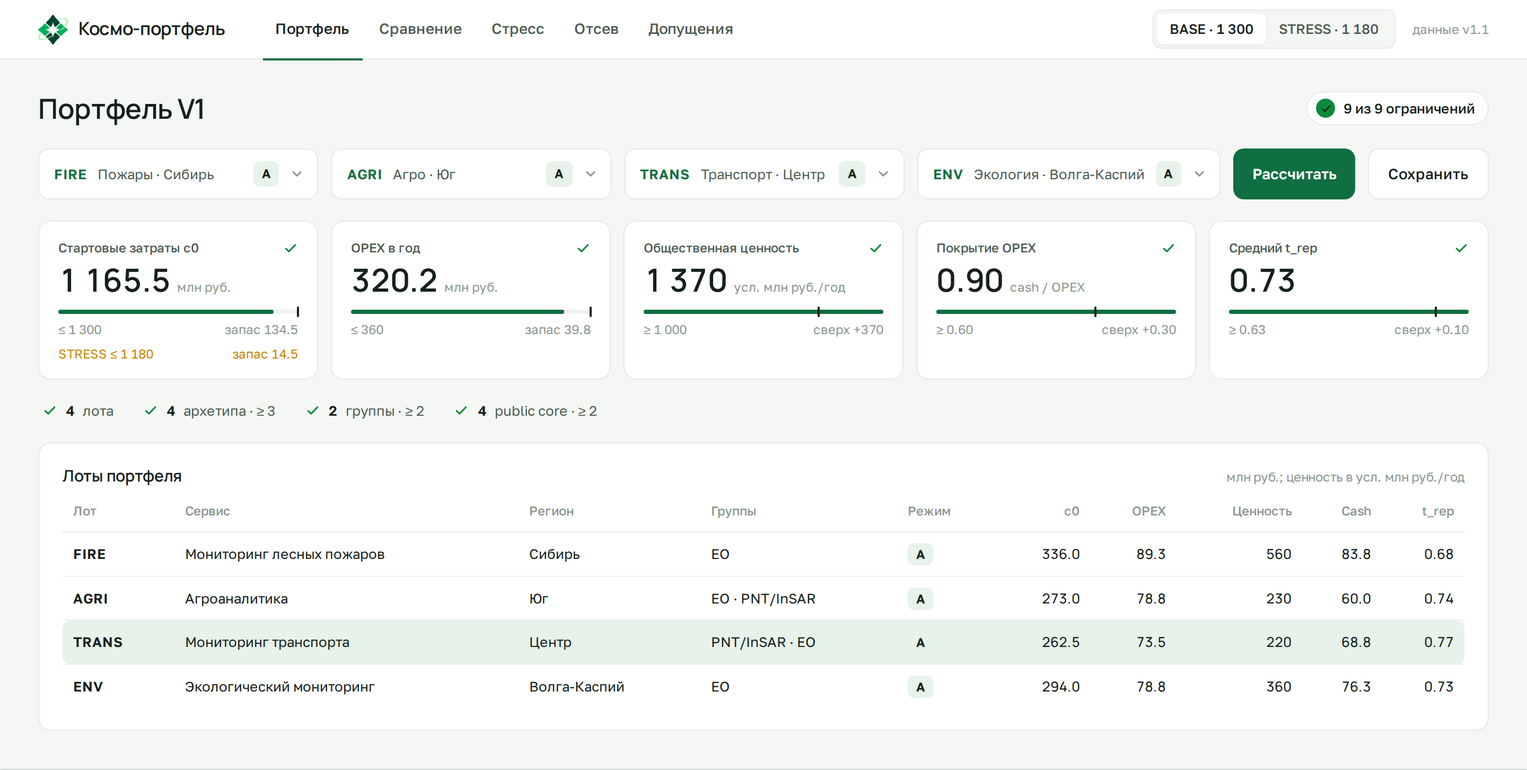
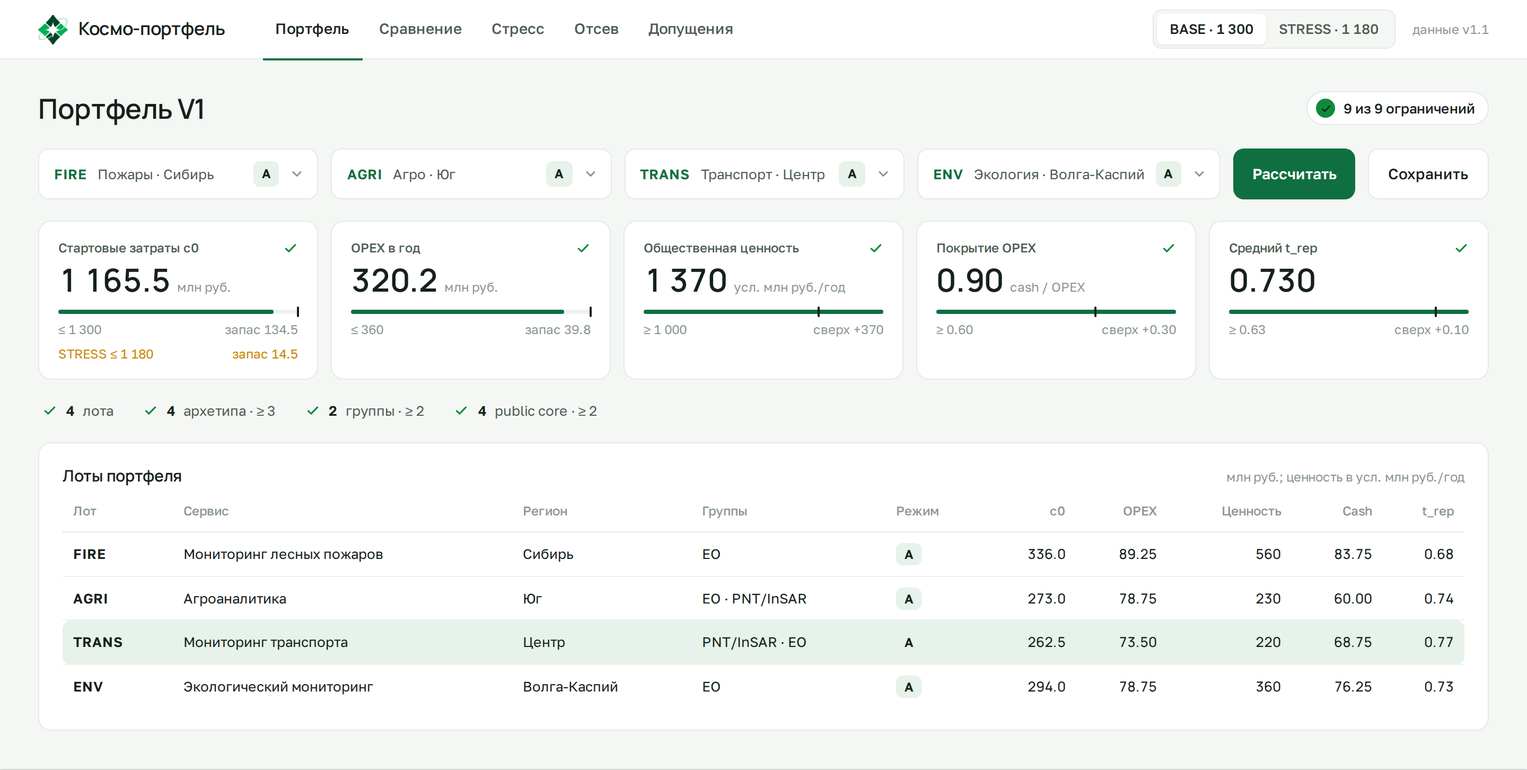
Mockup: fix V3 mode-B value, exact lot OPEX/cash, consistent t_rep precision
FLOOD to mode B gives 1 632.0 of public value, not 1 640.0 (600 × 0.18
drop). Lot rows now show OPEX and cash to two decimals so they foot to the
tiles; the t_rep tile matches the three-decimal comparison table; the
sensitivity wording is in Russian. Renders regenerated.

Claude-Session: https://claude.ai/code/session_01KcoMSpG9W4V5jAtNpJCSFt

diff --git a/docs/mockup/kosmo-portfolio.html b/docs/mockup/kosmo-portfolio.html
@@ -146,7 +146,7 @@ body{background:#dfe5e0;padding:24px 0}
   <div class="tile"><div class="tl">OPEX в год <svg viewBox="0 0 16 16" fill="none" stroke="currentColor" stroke-width="1.8" stroke-linecap="round" stroke-linejoin="round" stroke-width="2.2"><path d="M3 8.5l3.2 3L13 4.5"></path></svg></div><div class="tv">320.2<small>млн руб.</small></div><div class="bar"><i style="width:88.9%"></i><b style="left:100%"></b></div><div class="tc"><span>≤ 360</span><span>запас 39.8</span></div></div>
   <div class="tile"><div class="tl">Общественная ценность <svg viewBox="0 0 16 16" fill="none" stroke="currentColor" stroke-width="1.8" stroke-linecap="round" stroke-linejoin="round" stroke-width="2.2"><path d="M3 8.5l3.2 3L13 4.5"></path></svg></div><div class="tv">1 370<small>усл. млн руб./год</small></div><div class="bar"><i style="width:100%"></i><b style="left:73%"></b></div><div class="tc"><span>≥ 1 000</span><span>сверх +370</span></div></div>
   <div class="tile"><div class="tl">Покрытие OPEX <svg viewBox="0 0 16 16" fill="none" stroke="currentColor" stroke-width="1.8" stroke-linecap="round" stroke-linejoin="round" stroke-width="2.2"><path d="M3 8.5l3.2 3L13 4.5"></path></svg></div><div class="tv">0.90<small>cash / OPEX</small></div><div class="bar"><i style="width:100%"></i><b style="left:66.5%"></b></div><div class="tc"><span>≥ 0.60</span><span>сверх +0.30</span></div></div>
-  <div class="tile"><div class="tl">Средний t_rep <svg viewBox="0 0 16 16" fill="none" stroke="currentColor" stroke-width="1.8" stroke-linecap="round" stroke-linejoin="round" stroke-width="2.2"><path d="M3 8.5l3.2 3L13 4.5"></path></svg></div><div class="tv">0.73<small></small></div><div class="bar"><i style="width:100%"></i><b style="left:86.3%"></b></div><div class="tc"><span>≥ 0.63</span><span>сверх +0.10</span></div></div>
+  <div class="tile"><div class="tl">Средний t_rep <svg viewBox="0 0 16 16" fill="none" stroke="currentColor" stroke-width="1.8" stroke-linecap="round" stroke-linejoin="round" stroke-width="2.2"><path d="M3 8.5l3.2 3L13 4.5"></path></svg></div><div class="tv">0.730<small></small></div><div class="bar"><i style="width:100%"></i><b style="left:86.3%"></b></div><div class="tc"><span>≥ 0.63</span><span>сверх +0.10</span></div></div>
 </div>
 <div class="comp">
   <span class="ck"><svg viewBox="0 0 16 16" fill="none" stroke="currentColor" stroke-width="1.8" stroke-linecap="round" stroke-linejoin="round" stroke-width="2.2"><path d="M3 8.5l3.2 3L13 4.5"></path></svg><b>4</b> лота</span>
@@ -157,10 +157,10 @@ body{background:#dfe5e0;padding:24px 0}
 <div class="card"><h2>Лоты портфеля<span class="u">млн руб.; ценность в усл. млн руб./год</span></h2>
 <table>
 <tr><th>Лот</th><th>Сервис</th><th>Регион</th><th>Группы</th><th>Режим</th><th class="num">c0</th><th class="num">OPEX</th><th class="num">Ценность</th><th class="num">Cash</th><th class="num">t_rep</th></tr>
-<tr><td><span class="code">FIRE</span></td><td>Мониторинг лесных пожаров</td><td>Сибирь</td><td>EO</td><td><span class="mode">A</span></td><td class="num">336.0</td><td class="num">89.3</td><td class="num">560</td><td class="num">83.8</td><td class="num">0.68</td></tr>
-<tr><td><span class="code">AGRI</span></td><td>Агроаналитика</td><td>Юг</td><td>EO · PNT/InSAR</td><td><span class="mode">A</span></td><td class="num">273.0</td><td class="num">78.8</td><td class="num">230</td><td class="num">60.0</td><td class="num">0.74</td></tr>
-<tr class="hl"><td><span class="code">TRANS</span></td><td>Мониторинг транспорта</td><td>Центр</td><td>PNT/InSAR · EO</td><td><span class="mode">A</span></td><td class="num">262.5</td><td class="num">73.5</td><td class="num">220</td><td class="num">68.8</td><td class="num">0.77</td></tr>
-<tr><td><span class="code">ENV</span></td><td>Экологический мониторинг</td><td>Волга-Каспий</td><td>EO</td><td><span class="mode">A</span></td><td class="num">294.0</td><td class="num">78.8</td><td class="num">360</td><td class="num">76.3</td><td class="num">0.73</td></tr>
+<tr><td><span class="code">FIRE</span></td><td>Мониторинг лесных пожаров</td><td>Сибирь</td><td>EO</td><td><span class="mode">A</span></td><td class="num">336.0</td><td class="num">89.25</td><td class="num">560</td><td class="num">83.75</td><td class="num">0.68</td></tr>
+<tr><td><span class="code">AGRI</span></td><td>Агроаналитика</td><td>Юг</td><td>EO · PNT/InSAR</td><td><span class="mode">A</span></td><td class="num">273.0</td><td class="num">78.75</td><td class="num">230</td><td class="num">60.00</td><td class="num">0.74</td></tr>
+<tr class="hl"><td><span class="code">TRANS</span></td><td>Мониторинг транспорта</td><td>Центр</td><td>PNT/InSAR · EO</td><td><span class="mode">A</span></td><td class="num">262.5</td><td class="num">73.50</td><td class="num">220</td><td class="num">68.75</td><td class="num">0.77</td></tr>
+<tr><td><span class="code">ENV</span></td><td>Экологический мониторинг</td><td>Волга-Каспий</td><td>EO</td><td><span class="mode">A</span></td><td class="num">294.0</td><td class="num">78.75</td><td class="num">360</td><td class="num">76.25</td><td class="num">0.73</td></tr>
 </table>
 </div>
 </main></section>
@@ -211,7 +211,7 @@ body{background:#dfe5e0;padding:24px 0}
 <tr><td><b>V4</b></td><td>AGRI · TRANS · ENV · SSA</td><td><span class="code">AAAA</span></td><td class="num">1 176.0</td><td class="num">330.8</td><td class="num">1 150.0</td><td class="num">295.0</td><td class="num">0.89</td><td class="num">0.720</td><td><span class="st ok">PASS</span></td><td><span class="st ok">PASS</span></td><td class="num">0.58</td></tr>
 <tr><td><b>V5</b></td><td>FIRE · AGRI · INFRA · TRANS</td><td><span class="code">ABAB</span></td><td class="num">1 171.5</td><td class="num">318.2</td><td class="num">1 229.0</td><td class="num">375.5</td><td class="num">1.18</td><td class="num">0.725</td><td><span class="st ok">PASS</span></td><td><span class="st ok">PASS</span></td><td class="num">0.71</td></tr>
 </table>
-<div class="note">Sensitivity ±20 % по весам: лидер не меняется.</div>
+<div class="note">Чувствительность ±20 % по весам: лидер не меняется.</div>
 </div>
 </main></section>
[1 lines of base64/hex data omitted]
@@ -234,7 +234,7 @@ body{background:#dfe5e0;padding:24px 0}
 <table>
 <tr><th>Действие</th><th class="num">c0</th><th class="num">Ценность</th><th>STRESS</th></tr>
 <tr><td>Оставить как есть</td><td class="num">1 249.5</td><td class="num">1 740.0</td><td><span class="st fail">−69.5</span></td></tr>
-<tr><td>Один лот в режим B</td><td class="num">1 232.5</td><td class="num">1 640.0</td><td><span class="st fail">−52.5</span></td></tr>
+<tr><td>Один лот в режим B</td><td class="num">1 232.5</td><td class="num">1 632.0</td><td><span class="st fail">−52.5</span></td></tr>
 <tr><td>Все четыре лота в режим B</td><td class="num">1 190.0</td><td class="num">1 426.8</td><td><span class="st fail">−10.0</span></td></tr>
 <tr><td>FLOOD → INFRA</td><td class="num">1 218.0</td><td class="num">1 440.0</td><td><span class="st fail">−38.0</span></td></tr>
 <tr><td>FIRE → AGRI, режимы AABA</td><td class="num">1 174.0</td><td class="num">1 370.4</td><td><span class="st ok">+6.0</span></td></tr>
@@ -327,7 +327,7 @@ body{background:#dfe5e0;padding:24px 0}
 <tr><td><span class="code">A-02</span></td><td>Дисконтирование</td><td>не применяется</td><td>постановка не требует</td><td>B, C</td></tr>
 <tr><td><span class="code">A-03</span></td><td>Плательщик якорной компоненты</td><td>межрегиональный заказчик; SSA — федеральный</td><td>постановка; 89-ФЗ для данных ДЗЗ</td><td>C, D</td></tr>
 <tr><td><span class="code">A-04</span></td><td>Порог тонкого запаса</td><td>3 % от порога</td><td>решение команды</td><td>B</td></tr>
-<tr><td><span class="code">A-05</span></td><td>Диапазон sensitivity</td><td>±20 %</td><td>notebook организаторов</td><td>B</td></tr>
+<tr><td><span class="code">A-05</span></td><td>Диапазон чувствительности</td><td>±20 %</td><td>notebook организаторов</td><td>B</td></tr>
 <tr><td><span class="code">A-06</span></td><td>Пользовательский режим D</td><td>не используется</td><td>достаточно A, B, C</td><td>D</td></tr>
 <tr><td><span class="code">A-07</span></td><td>Срок контракта с оператором</td><td>3 + 2 года</td><td>практика госконтрактов</td><td>D</td></tr>
 </table>

diff --git a/docs/mockup/fonts.html b/docs/mockup/fonts.html
@@ -150,7 +150,7 @@ body{background:#dfe5e0;padding:24px 0}
   <div class="tile"><div class="tl">OPEX в год <svg viewBox="0 0 16 16" fill="none" stroke="currentColor" stroke-width="1.8" stroke-linecap="round" stroke-linejoin="round" stroke-width="2.2"><path d="M3 8.5l3.2 3L13 4.5"></path></svg></div><div class="tv">320.2<small>млн руб.</small></div><div class="bar"><i style="width:88.9%"></i><b style="left:100%"></b></div><div class="tc"><span>≤ 360</span><span>запас 39.8</span></div></div>
   <div class="tile"><div class="tl">Общественная ценность <svg viewBox="0 0 16 16" fill="none" stroke="currentColor" stroke-width="1.8" stroke-linecap="round" stroke-linejoin="round" stroke-width="2.2"><path d="M3 8.5l3.2 3L13 4.5"></path></svg></div><div class="tv">1 370<small>усл. млн руб./год</small></div><div class="bar"><i style="width:100%"></i><b style="left:73%"></b></div><div class="tc"><span>≥ 1 000</span><span>сверх +370</span></div></div>
   <div class="tile"><div class="tl">Покрытие OPEX <svg viewBox="0 0 16 16" fill="none" stroke="currentColor" stroke-width="1.8" stroke-linecap="round" stroke-linejoin="round" stroke-width="2.2"><path d="M3 8.5l3.2 3L13 4.5"></path></svg></div><div class="tv">0.90<small>cash / OPEX</small></div><div class="bar"><i style="width:100%"></i><b style="left:66.5%"></b></div><div class="tc"><span>≥ 0.60</span><span>сверх +0.30</span></div></div>
-  <div class="tile"><div class="tl">Средний t_rep <svg viewBox="0 0 16 16" fill="none" stroke="currentColor" stroke-width="1.8" stroke-linecap="round" stroke-linejoin="round" stroke-width="2.2"><path d="M3 8.5l3.2 3L13 4.5"></path></svg></div><div class="tv">0.73<small></small></div><div class="bar"><i style="width:100%"></i><b style="left:86.3%"></b></div><div class="tc"><span>≥ 0.63</span><span>сверх +0.10</span></div></div>
+  <div class="tile"><div class="tl">Средний t_rep <svg viewBox="0 0 16 16" fill="none" stroke="currentColor" stroke-width="1.8" stroke-linecap="round" stroke-linejoin="round" stroke-width="2.2"><path d="M3 8.5l3.2 3L13 4.5"></path></svg></div><div class="tv">0.730<small></small></div><div class="bar"><i style="width:100%"></i><b style="left:86.3%"></b></div><div class="tc"><span>≥ 0.63</span><span>сверх +0.10</span></div></div>
 </div>
 <div class="comp">
   <span class="ck"><svg viewBox="0 0 16 16" fill="none" stroke="currentColor" stroke-width="1.8" stroke-linecap="round" stroke-linejoin="round" stroke-width="2.2"><path d="M3 8.5l3.2 3L13 4.5"></path></svg><b>4</b> лота</span>
@@ -161,10 +161,10 @@ body{background:#dfe5e0;padding:24px 0}
 <div class="card"><h2>Лоты портфеля<span class="u">млн руб.; ценность в усл. млн руб./год</span></h2>
 <table>
 <tr><th>Лот</th><th>Сервис</th><th>Регион</th><th>Группы</th><th>Режим</th><th class="num">c0</th><th class="num">OPEX</th><th class="num">Ценность</th><th class="num">Cash</th><th class="num">t_rep</th></tr>
-<tr><td><span class="code">FIRE</span></td><td>Мониторинг лесных пожаров</td><td>Сибирь</td><td>EO</td><td><span class="mode">A</span></td><td class="num">336.0</td><td class="num">89.3</td><td class="num">560</td><td class="num">83.8</td><td class="num">0.68</td></tr>
-<tr><td><span class="code">AGRI</span></td><td>Агроаналитика</td><td>Юг</td><td>EO · PNT/InSAR</td><td><span class="mode">A</span></td><td class="num">273.0</td><td class="num">78.8</td><td class="num">230</td><td class="num">60.0</td><td class="num">0.74</td></tr>
-<tr class="hl"><td><span class="code">TRANS</span></td><td>Мониторинг транспорта</td><td>Центр</td><td>PNT/InSAR · EO</td><td><span class="mode">A</span></td><td class="num">262.5</td><td class="num">73.5</td><td class="num">220</td><td class="num">68.8</td><td class="num">0.77</td></tr>
-<tr><td><span class="code">ENV</span></td><td>Экологический мониторинг</td><td>Волга-Каспий</td><td>EO</td><td><span class="mode">A</span></td><td class="num">294.0</td><td class="num">78.8</td><td class="num">360</td><td class="num">76.3</td><td class="num">0.73</td></tr>
+<tr><td><span class="code">FIRE</span></td><td>Мониторинг лесных пожаров</td><td>Сибирь</td><td>EO</td><td><span class="mode">A</span></td><td class="num">336.0</td><td class="num">89.25</td><td class="num">560</td><td class="num">83.75</td><td class="num">0.68</td></tr>
+<tr><td><span class="code">AGRI</span></td><td>Агроаналитика</td><td>Юг</td><td>EO · PNT/InSAR</td><td><span class="mode">A</span></td><td class="num">273.0</td><td class="num">78.75</td><td class="num">230</td><td class="num">60.00</td><td class="num">0.74</td></tr>
+<tr class="hl"><td><span class="code">TRANS</span></td><td>Мониторинг транспорта</td><td>Центр</td><td>PNT/InSAR · EO</td><td><span class="mode">A</span></td><td class="num">262.5</td><td class="num">73.50</td><td class="num">220</td><td class="num">68.75</td><td class="num">0.77</td></tr>
+<tr><td><span class="code">ENV</span></td><td>Экологический мониторинг</td><td>Волга-Каспий</td><td>EO</td><td><span class="mode">A</span></td><td class="num">294.0</td><td class="num">78.75</td><td class="num">360</td><td class="num">76.25</td><td class="num">0.73</td></tr>
 </table>
 </div>
 </main></section>
@@ -184,7 +184,7 @@ body{background:#dfe5e0;padding:24px 0}
   <div class="tile"><div class="tl">OPEX в год <svg viewBox="0 0 16 16" fill="none" stroke="currentColor" stroke-width="1.8" stroke-linecap="round" stroke-linejoin="round" stroke-width="2.2"><path d="M3 8.5l3.2 3L13 4.5"></path></svg></div><div class="tv">320.2<small>млн руб.</small></div><div class="bar"><i style="width:88.9%"></i><b style="left:100%"></b></div><div class="tc"><span>≤ 360</span><span>запас 39.8</span></div></div>
   <div class="tile"><div class="tl">Общественная ценность <svg viewBox="0 0 16 16" fill="none" stroke="currentColor" stroke-width="1.8" stroke-linecap="round" stroke-linejoin="round" stroke-width="2.2"><path d="M3 8.5l3.2 3L13 4.5"></path></svg></div><div class="tv">1 370<small>усл. млн руб./год</small></div><div class="bar"><i style="width:100%"></i><b style="left:73%"></b></div><div class="tc"><span>≥ 1 000</span><span>сверх +370</span></div></div>
   <div class="tile"><div class="tl">Покрытие OPEX <svg viewBox="0 0 16 16" fill="none" stroke="currentColor" stroke-width="1.8" stroke-linecap="round" stroke-linejoin="round" stroke-width="2.2"><path d="M3 8.5l3.2 3L13 4.5"></path></svg></div><div class="tv">0.90<small>cash / OPEX</small></div><div class="bar"><i style="width:100%"></i><b style="left:66.5%"></b></div><div class="tc"><span>≥ 0.60</span><span>сверх +0.30</span></div></div>
-  <div class="tile"><div class="tl">Средний t_rep <svg viewBox="0 0 16 16" fill="none" stroke="currentColor" stroke-width="1.8" stroke-linecap="round" stroke-linejoin="round" stroke-width="2.2"><path d="M3 8.5l3.2 3L13 4.5"></path></svg></div><div class="tv">0.73<small></small></div><div class="bar"><i style="width:100%"></i><b style="left:86.3%"></b></div><div class="tc"><span>≥ 0.63</span><span>сверх +0.10</span></div></div>
+  <div class="tile"><div class="tl">Средний t_rep <svg viewBox="0 0 16 16" fill="none" stroke="currentColor" stroke-width="1.8" stroke-linecap="round" stroke-linejoin="round" stroke-width="2.2"><path d="M3 8.5l3.2 3L13 4.5"></path></svg></div><div class="tv">0.730<small></small></div><div class="bar"><i style="width:100%"></i><b style="left:86.3%"></b></div><div class="tc"><span>≥ 0.63</span><span>сверх +0.10</span></div></div>
 </div>
 <div class="comp">
   <span class="ck"><svg viewBox="0 0 16 16" fill="none" stroke="currentColor" stroke-width="1.8" stroke-linecap="round" stroke-linejoin="round" stroke-width="2.2"><path d="M3 8.5l3.2 3L13 4.5"></path></svg><b>4</b> лота</span>
@@ -195,10 +195,10 @@ body{background:#dfe5e0;padding:24px 0}
 <div class="card"><h2>Лоты портфеля<span class="u">млн руб.; ценность в усл. млн руб./год</span></h2>
 <table>
 <tr><th>Лот</th><th>Сервис</th><th>Регион</th><th>Группы</th><th>Режим</th><th class="num">c0</th><th class="num">OPEX</th><th class="num">Ценность</th><th class="num">Cash</th><th class="num">t_rep</th></tr>
-<tr><td><span class="code">FIRE</span></td><td>Мониторинг лесных пожаров</td><td>Сибирь</td><td>EO</td><td><span class="mode">A</span></td><td class="num">336.0</td><td class="num">89.3</td><td class="num">560</td><td class="num">83.8</td><td class="num">0.68</td></tr>
-<tr><td><span class="code">AGRI</span></td><td>Агроаналитика</td><td>Юг</td><td>EO · PNT/InSAR</td><td><span class="mode">A</span></td><td class="num">273.0</td><td class="num">78.8</td><td class="num">230</td><td class="num">60.0</td><td class="num">0.74</td></tr>
-<tr class="hl"><td><span class="code">TRANS</span></td><td>Мониторинг транспорта</td><td>Центр</td><td>PNT/InSAR · EO</td><td><span class="mode">A</span></td><td class="num">262.5</td><td class="num">73.5</td><td class="num">220</td><td class="num">68.8</td><td class="num">0.77</td></tr>
-<tr><td><span class="code">ENV</span></td><td>Экологический мониторинг</td><td>Волга-Каспий</td><td>EO</td><td><span class="mode">A</span></td><td class="num">294.0</td><td class="num">78.8</td><td class="num">360</td><td class="num">76.3</td><td class="num">0.73</td></tr>
+<tr><td><span class="code">FIRE</span></td><td>Мониторинг лесных пожаров</td><td>Сибирь</td><td>EO</td><td><span class="mode">A</span></td><td class="num">336.0</td><td class="num">89.25</td><td class="num">560</td><td class="num">83.75</td><td class="num">0.68</td></tr>
+<tr><td><span class="code">AGRI</span></td><td>Агроаналитика</td><td>Юг</td><td>EO · PNT/InSAR</td><td><span class="mode">A</span></td><td class="num">273.0</td><td class="num">78.75</td><td class="num">230</td><td class="num">60.00</td><td class="num">0.74</td></tr>
+<tr class="hl"><td><span class="code">TRANS</span></td><td>Мониторинг транспорта</td><td>Центр</td><td>PNT/InSAR · EO</td><td><span class="mode">A</span></td><td class="num">262.5</td><td class="num">73.50</td><td class="num">220</td><td class="num">68.75</td><td class="num">0.77</td></tr>
+<tr><td><span class="code">ENV</span></td><td>Экологический мониторинг</td><td>Волга-Каспий</td><td>EO</td><td><span class="mode">A</span></td><td class="num">294.0</td><td class="num">78.75</td><td class="num">360</td><td class="num">76.25</td><td class="num">0.73</td></tr>
 </table>
 </div>
 </main></section>
@@ -218,7 +218,7 @@ body{background:#dfe5e0;padding:24px 0}
   <div class="tile"><div class="tl">OPEX в год <svg viewBox="0 0 16 16" fill="none" stroke="currentColor" stroke-width="1.8" stroke-linecap="round" stroke-linejoin="round" stroke-width="2.2"><path d="M3 8.5l3.2 3L13 4.5"></path></svg></div><div class="tv">320.2<small>млн руб.</small></div><div class="bar"><i style="width:88.9%"></i><b style="left:100%"></b></div><div class="tc"><span>≤ 360</span><span>запас 39.8</span></div></div>
   <div class="tile"><div class="tl">Общественная ценность <svg viewBox="0 0 16 16" fill="none" stroke="currentColor" stroke-width="1.8" stroke-linecap="round" stroke-linejoin="round" stroke-width="2.2"><path d="M3 8.5l3.2 3L13 4.5"></path></svg></div><div class="tv">1 370<small>усл. млн руб./год</small></div><div class="bar"><i style="width:100%"></i><b style="left:73%"></b></div><div class="tc"><span>≥ 1 000</span><span>сверх +370</span></div></div>
   <div class="tile"><div class="tl">Покрытие OPEX <svg viewBox="0 0 16 16" fill="none" stroke="currentColor" stroke-width="1.8" stroke-linecap="round" stroke-linejoin="round" stroke-width="2.2"><path d="M3 8.5l3.2 3L13 4.5"></path></svg></div><div class="tv">0.90<small>cash / OPEX</small></div><div class="bar"><i style="width:100%"></i><b style="left:66.5%"></b></div><div class="tc"><span>≥ 0.60</span><span>сверх +0.30</span></div></div>
-  <div class="tile"><div class="tl">Средний t_rep <svg viewBox="0 0 16 16" fill="none" stroke="currentColor" stroke-width="1.8" stroke-linecap="round" stroke-linejoin="round" stroke-width="2.2"><path d="M3 8.5l3.2 3L13 4.5"></path></svg></div><div class="tv">0.73<small></small></div><div class="bar"><i style="width:100%"></i><b style="left:86.3%"></b></div><div class="tc"><span>≥ 0.63</span><span>сверх +0.10</span></div></div>
+  <div class="tile"><div class="tl">Средний t_rep <svg viewBox="0 0 16 16" fill="none" stroke="currentColor" stroke-width="1.8" stroke-linecap="round" stroke-linejoin="round" stroke-width="2.2"><path d="M3 8.5l3.2 3L13 4.5"></path></svg></div><div class="tv">0.730<small></small></div><div class="bar"><i style="width:100%"></i><b style="left:86.3%"></b></div><div class="tc"><span>≥ 0.63</span><span>сверх +0.10</span></div></div>
 </div>
 <div class="comp">
   <span class="ck"><svg viewBox="0 0 16 16" fill="none" stroke="currentColor" stroke-width="1.8" stroke-linecap="round" stroke-linejoin="round" stroke-width="2.2"><path d="M3 8.5l3.2 3L13 4.5"></path></svg><b>4</b> лота</span>
@@ -229,10 +229,10 @@ body{background:#dfe5e0;padding:24px 0}
 <div class="card"><h2>Лоты портфеля<span class="u">млн руб.; ценность в усл. млн руб./год</span></h2>
 <table>
 <tr><th>Лот</th><th>Сервис</th><th>Регион</th><th>Группы</th><th>Режим</th><th class="num">c0</th><th class="num">OPEX</th><th class="num">Ценность</th><th class="num">Cash</th><th class="num">t_rep</th></tr>
-<tr><td><span class="code">FIRE</span></td><td>Мониторинг лесных пожаров</td><td>Сибирь</td><td>EO</td><td><span class="mode">A</span></td><td class="num">336.0</td><td class="num">89.3</td><td class="num">560</td><td class="num">83.8</td><td class="num">0.68</td></tr>
-<tr><td><span class="code">AGRI</span></td><td>Агроаналитика</td><td>Юг</td><td>EO · PNT/InSAR</td><td><span class="mode">A</span></td><td class="num">273.0</td><td class="num">78.8</td><td class="num">230</td><td class="num">60.0</td><td class="num">0.74</td></tr>
-<tr class="hl"><td><span class="code">TRANS</span></td><td>Мониторинг транспорта</td><td>Центр</td><td>PNT/InSAR · EO</td><td><span class="mode">A</span></td><td class="num">262.5</td><td class="num">73.5</td><td class="num">220</td><td class="num">68.8</td><td class="num">0.77</td></tr>
-<tr><td><span class="code">ENV</span></td><td>Экологический мониторинг</td><td>Волга-Каспий</td><td>EO</td><td><span class="mode">A</span></td><td class="num">294.0</td><td class="num">78.8</td><td class="num">360</td><td class="num">76.3</td><td class="num">0.73</td></tr>
+<tr><td><span class="code">FIRE</span></td><td>Мониторинг лесных пожаров</td><td>Сибирь</td><td>EO</td><td><span class="mode">A</span></td><td class="num">336.0</td><td class="num">89.25</td><td class="num">560</td><td class="num">83.75</td><td class="num">0.68</td></tr>
+<tr><td><span class="code">AGRI</span></td><td>Агроаналитика</td><td>Юг</td><td>EO · PNT/InSAR</td><td><span class="mode">A</span></td><td class="num">273.0</td><td class="num">78.75</td><td class="num">230</td><td class="num">60.00</td><td class="num">0.74</td></tr>
+<tr class="hl"><td><span class="code">TRANS</span></td><td>Мониторинг транспорта</td><td>Центр</td><td>PNT/InSAR · EO</td><td><span class="mode">A</span></td><td class="num">262.5</td><td class="num">73.50</td><td class="num">220</td><td class="num">68.75</td><td class="num">0.77</td></tr>
+<tr><td><span class="code">ENV</span></td><td>Экологический мониторинг</td><td>Волга-Каспий</td><td>EO</td><td><span class="mode">A</span></td><td class="num">294.0</td><td class="num">78.75</td><td class="num">360</td><td class="num">76.25</td><td class="num">0.73</td></tr>
 </table>
 </div>
 </main></section>
